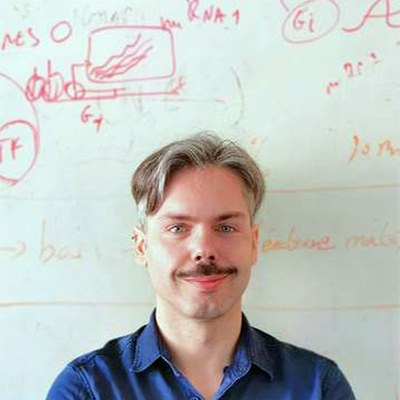
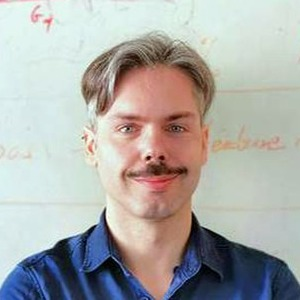
Enlarge co-chair headshots + tighter Luca crop; darken registration slash; fuchsia 'ISCB member' label

diff --git a/assets/css/main.css b/assets/css/main.css
@@ -663,12 +663,12 @@ a:focus-visible { outline: 2px solid var(--c-accent); outline-offset: 2px; borde
   display: flex; flex-direction: column; align-items: center; gap: 0.1rem;
 }
 .organizer-avatar {
-  width: 76px; height: 76px;
+  width: 110px; height: 110px;
   border-radius: 50%;
   background: linear-gradient(135deg, var(--c-primary) 0%, var(--c-primary-light) 100%);
   color: #fff;
   display: flex; align-items: center; justify-content: center;
-  font-weight: 600; font-size: 1.6rem;
+  font-weight: 600; font-size: 2.2rem;
   font-family: var(--font-display);
   flex: 0 0 auto;
   box-shadow: 0 0 0 3px var(--c-bg), 0 0 0 4px var(--c-border);
@@ -903,7 +903,7 @@ a:focus-visible { outline: 2px solid var(--c-accent); outline-offset: 2px; borde
 }
 .reg-member { color: var(--c-primary); font-weight: 600; }
 .reg-nonmember { color: var(--c-text); }
-.reg-sep { color: var(--c-border); margin: 0 0.15rem; }
+.reg-sep { color: var(--c-text); margin: 0 0.2rem; font-weight: 500; }
 .registration-notes {
   list-style: none; margin: 0.85rem 0 0; padding: 0;
   color: var(--c-text-muted); font-size: 0.85rem; line-height: 1.5;
